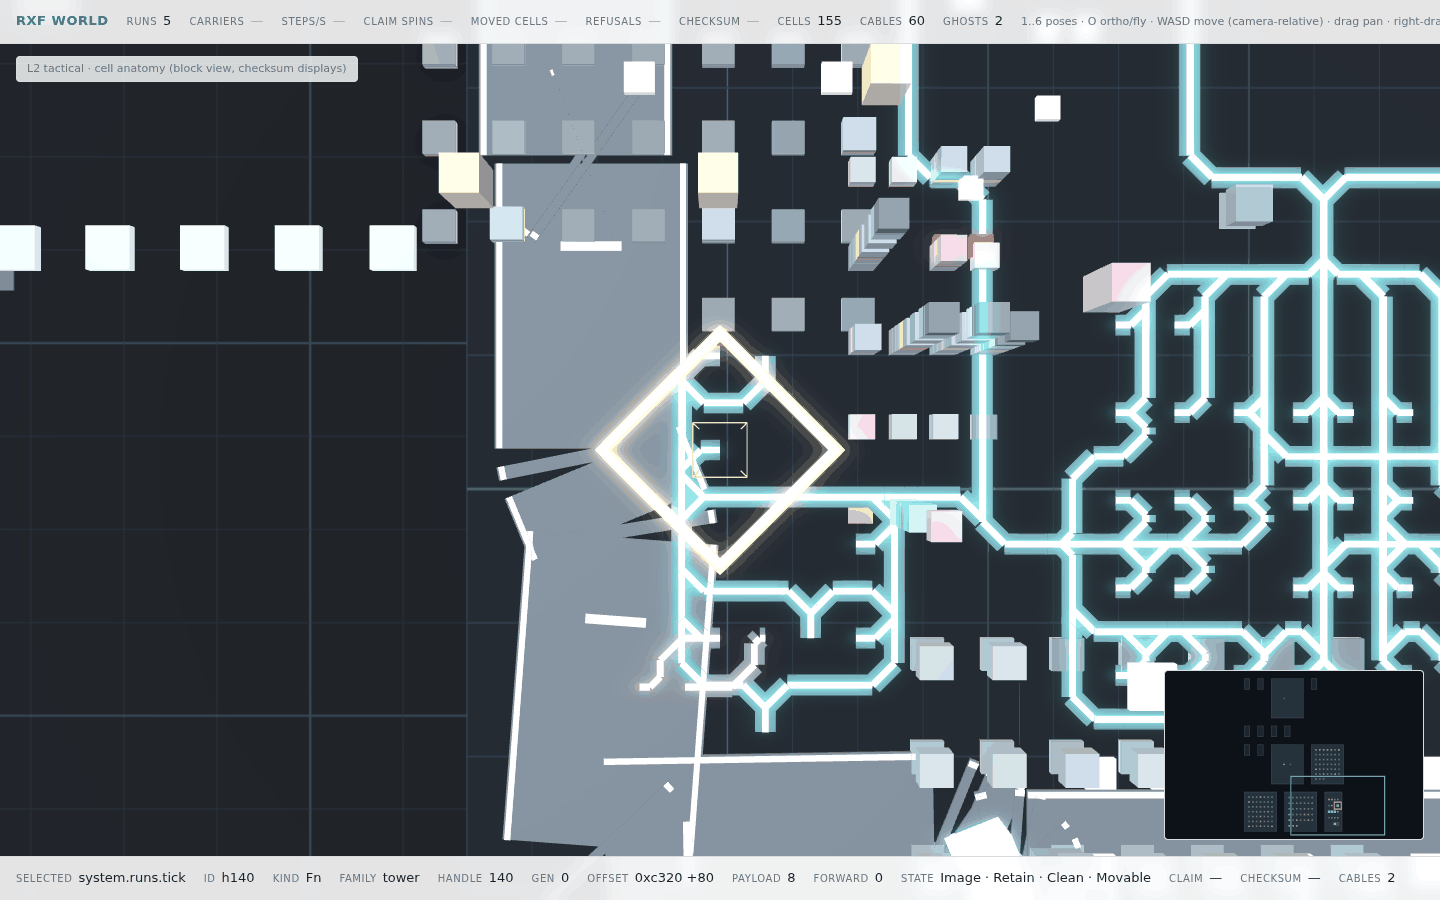
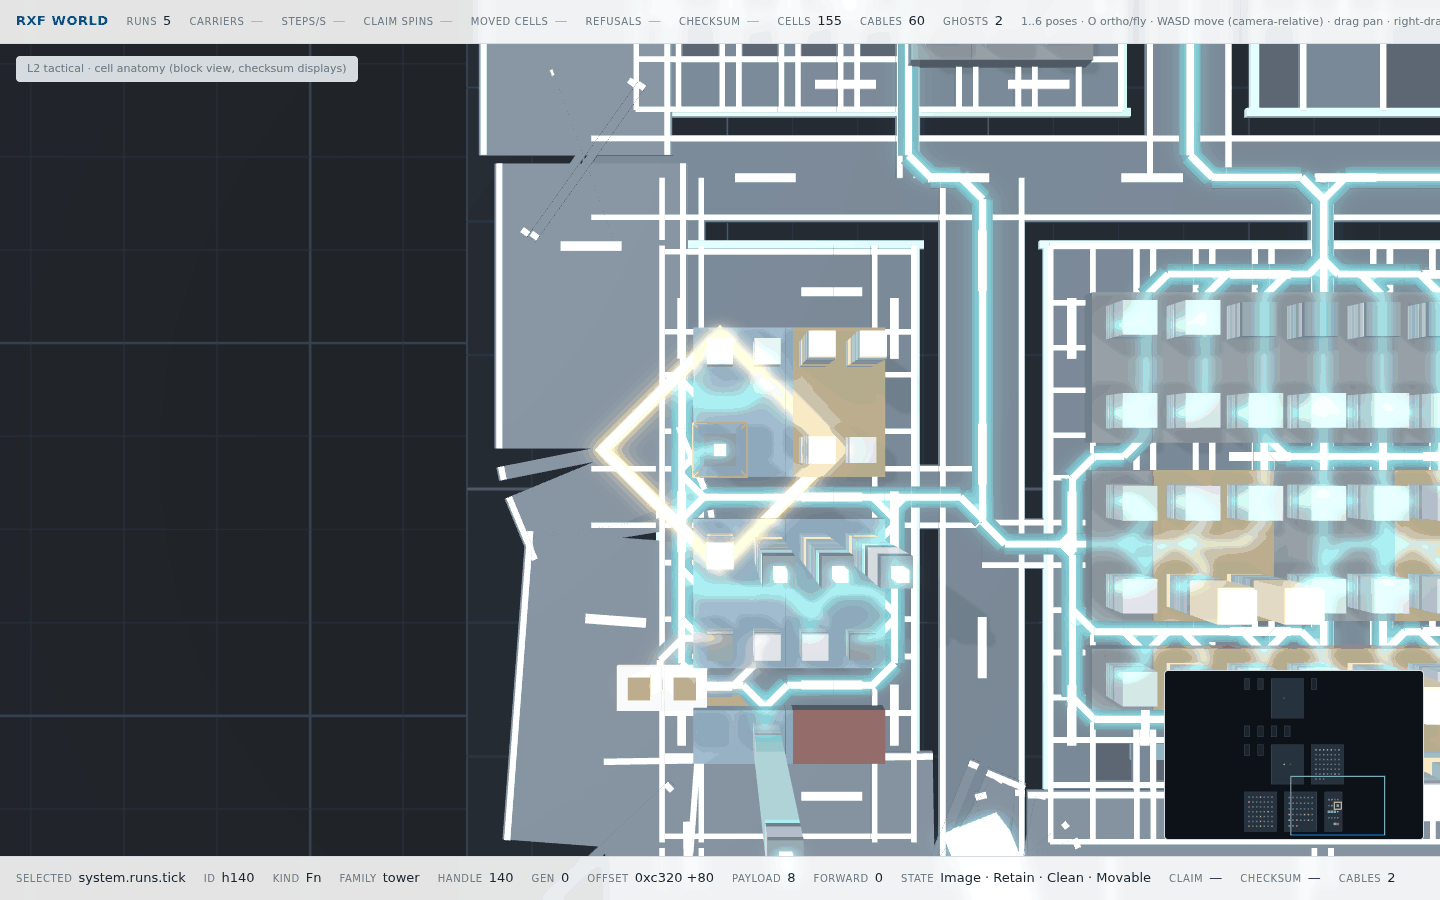
fix(world): city placement by its own coordinates, fog out of the zoom
The scene built its thin-instance matrices as Translation.multiply(Scaling).
Babylon takes row vectors (v' = v * M), so the translation ended up scaled by the
box size: every building, block and street scattered by its own footprint while
the ring road (built with Matrix.Compose) hugged the true bounds -- which read as
"a lone loop in one corner and a sprawl around it". One canonical helper
(placed = Scaling * Translation) now builds every placed box. Measured on the
live scene: block b0 sits at (22.3, 48.0) again instead of (62.44, 134.40), and
streets/massing/block/plot/floor bboxes are all back inside the ring bounds.

The EXP2 fog also drowned the city when scrolling out -- at high altitude every
pixel sits past the fog wall and the near-black fog color ate the scene. Fog
density is now camera-relative and thins as the rig pulls up.

Proofs re-captured from the fixed scene (overview, tactical, topdown, inspect).
Gates: test_world3d 23/23, node --check.

diff --git a/src/pymergetic/rxf/world/static/scene/rxf-world.js b/src/pymergetic/rxf/world/static/scene/rxf-world.js
@@ -136,6 +136,14 @@
     return data;
   }
 
+  function placed(x, y, z, w, h, d) {
+    /* A unit box scaled, then moved to its place. The order is the law here: Babylon takes
+     * row vectors (v' = v * M), so the matrix is Scaling * Translation -- the translation is
+     * applied last and stays raw. Translating first (Translation.multiply(Scaling)) would
+     * multiply the position by the box size and scatter the city by its own footprints. */
+    return BABYLON.Matrix.Scaling(w, h, d).multiply(BABYLON.Matrix.Translation(x, y, z));
+  }
+
   /* ---- the camera rig: one camera, ortho <-> perspective, camera-relative movement ---------- */
   function Rig(camera, canvas) {
     this.camera = camera;
@@ -510,11 +518,7 @@
       var plot = region.plot;
       var raster = region.tiles;
       var bandName = tileMatrices[region.band] ? region.band : "cells";
-      baseMatrices.push(
-        BABYLON.Matrix.Translation(plot.x + plot.w / 2, 0.05, plot.z + plot.d / 2).multiply(
-          BABYLON.Matrix.Scaling(plot.w, 0.1, plot.d)
-        )
-      );
+      baseMatrices.push(placed(plot.x + plot.w / 2, 0.05, plot.z + plot.d / 2, plot.w, 0.1, plot.d));
       /* the district's own tint: one band family, one district — the floor reads as districts */
       var district = tintOf(bandName, region.start + plot.x * 16 + plot.z);
       var lit = region.empty ? 0.55 : 1;
@@ -525,9 +529,7 @@
           var tileX = plot.x + (col + 0.5) * raster.step_x;
           var tileZ = plot.z + (row + 0.5) * raster.step_z;
           tileMatrices[bandName].push(
-            BABYLON.Matrix.Translation(tileX, 0.13, tileZ).multiply(
-              BABYLON.Matrix.Scaling(raster.step_x - inset, 0.14, raster.step_z - inset)
-            )
+            placed(tileX, 0.13, tileZ, raster.step_x - inset, 0.14, raster.step_z - inset)
           );
           var vary = 0.96 + 0.08 * hash(col * 31 + row * 17 + Math.round(plot.x * 7));
           tileColors[bandName].push(
@@ -549,11 +551,7 @@
         [plot.x + plot.w - edge / 2, rimY, plot.z + plot.d / 2, edge, 0.22, plot.d - edge]
       ];
       for (var side of rimSides) {
-        rimMatrices.push(
-          BABYLON.Matrix.Translation(side[0], side[1], side[2]).multiply(
-            BABYLON.Matrix.Scaling(side[3], side[4], side[5])
-          )
-        );
+        rimMatrices.push(placed(side[0], side[1], side[2], side[3], side[4], side[5]));
         rimColors.push(rimTint.r, rimTint.g, rimTint.b, 1);
       }
     }
@@ -617,9 +615,7 @@
         var floorHeight = raws[floor] * shrink;
         roleMesh(floorRole);
         roleMatrices[floorRole].push(
-          BABYLON.Matrix.Translation(cell.plot.x, y + floorHeight / 2, cell.plot.z).multiply(
-            BABYLON.Matrix.Scaling(width, floorHeight, width)
-          )
+          placed(cell.plot.x, y + floorHeight / 2, cell.plot.z, width, floorHeight, width)
         );
         var tint = floorColor(floorRole, cell);
         roleColors[floorRole].push(tint.r, tint.g, tint.b, 1);
@@ -648,15 +644,11 @@
     for (var capped of built.cellList) {
       if (capped.family === "tower") {
         beaconMatrices.push(
-          BABYLON.Matrix.Translation(capped.plot.x, capped.height + 0.45, capped.plot.z).multiply(
-            BABYLON.Matrix.Scaling(0.34, 0.9, 0.34)
-          )
+          placed(capped.plot.x, capped.height + 0.45, capped.plot.z, 0.34, 0.9, 0.34)
         );
       } else if (capped.family === "monument") {
         crownMatrices.push(
-          BABYLON.Matrix.Translation(capped.plot.x, capped.height + 0.12, capped.plot.z).multiply(
-            BABYLON.Matrix.Scaling(capped.footprint * 0.92, 0.24, capped.footprint * 0.92)
-          )
+          placed(capped.plot.x, capped.height + 0.12, capped.plot.z, capped.footprint * 0.92, 0.24, capped.footprint * 0.92)
         );
       }
     }
@@ -674,9 +666,7 @@
     var voidMatrices = [];
     for (var tile of doc.voids) {
       voidMatrices.push(
-        BABYLON.Matrix.Translation(tile.plot.x, 0.16, tile.plot.z).multiply(
-          BABYLON.Matrix.Scaling(tile.footprint, 0.22, tile.footprint)
-        )
+        placed(tile.plot.x, 0.16, tile.plot.z, tile.footprint, 0.22, tile.footprint)
       );
     }
     voidMesh.thinInstanceSetBuffer("matrix", matrixBuffer(voidMatrices), 16, true);
@@ -742,9 +732,7 @@
     var padColors = [];
     function padAt(x, z, fresh) {
       /* every trace plugs into something: a pad at each endpoint, never a naked line */
-      padMatrices.push(
-        BABYLON.Matrix.Translation(x, 0.40, z).multiply(BABYLON.Matrix.Scaling(1.6, 0.34, 1.6))
-      );
+      padMatrices.push(placed(x, 0.40, z, 1.6, 0.34, 1.6));
       var padTint = color(fresh ? CABLE_FRESH : CABLE_STALE, 0.6);
       padColors.push(padTint.r, padTint.g, padTint.b, 1);
     }
@@ -773,9 +761,7 @@
         };
       }
       if (!target) {
-        graveMatrices.push(
-          BABYLON.Matrix.Translation(end.x, 0.34, end.z).multiply(BABYLON.Matrix.Scaling(0.8, 0.6, 0.8))
-        );
+        graveMatrices.push(placed(end.x, 0.34, end.z, 0.8, 0.6, 0.8));
       }
       padAt(start.x, start.z, edge.fresh);
       padAt(end.x, end.z, edge.fresh);
@@ -926,32 +912,32 @@
       var centerX = alongX ? (street.from + street.to) / 2 : street.at;
       var centerZ = alongX ? street.at : (street.from + street.to) / 2;
       streetRoadMatrices.push(
-        BABYLON.Matrix.Translation(centerX, 0.16, centerZ).multiply(
-          BABYLON.Matrix.Scaling(alongX ? length : street.width, 0.1, alongX ? street.width : length)
-        )
+        placed(centerX, 0.16, centerZ, alongX ? length : street.width, 0.1, alongX ? street.width : length)
       );
       for (var side of [-1, 1]) {
         /* the curb: a thin glowing strip along each street edge, the ring's road language */
         var curbOffset = side * (street.width / 2 - 0.15);
         streetCurbMatrices.push(
-          BABYLON.Matrix.Translation(
+          placed(
             centerX + (alongX ? 0 : curbOffset),
             0.265,
-            centerZ + (alongX ? curbOffset : 0)
-          ).multiply(
-            BABYLON.Matrix.Scaling(alongX ? length : 0.2, 0.06, alongX ? 0.2 : length)
+            centerZ + (alongX ? curbOffset : 0),
+            alongX ? length : 0.2,
+            0.06,
+            alongX ? 0.2 : length
           )
         );
       }
       for (var dashAt = 3; dashAt < length - 3; dashAt += 7) {
         var dashT = street.from + dashAt;
         streetDashMatrices.push(
-          BABYLON.Matrix.Translation(
+          placed(
             alongX ? dashT : centerX,
             0.275,
-            alongX ? centerZ : dashT
-          ).multiply(
-            BABYLON.Matrix.Scaling(alongX ? 2.2 : 0.32, 0.07, alongX ? 0.32 : 2.2)
+            alongX ? centerZ : dashT,
+            alongX ? 2.2 : 0.32,
+            0.07,
+            alongX ? 0.32 : 2.2
           )
         );
       }
@@ -984,22 +970,28 @@
       var blockPlot = cityBlock.plot;
       var blockTint = color(FAMILY_COLORS[cityBlock.family] || FAMILY_COLORS.block, 0.5);
       blockMatrices.push(
-        BABYLON.Matrix.Translation(
+        placed(
           blockPlot.x + blockPlot.w / 2,
           0.45,
-          blockPlot.z + blockPlot.d / 2
-        ).multiply(BABYLON.Matrix.Scaling(blockPlot.w, 0.9, blockPlot.d))
+          blockPlot.z + blockPlot.d / 2,
+          blockPlot.w,
+          0.9,
+          blockPlot.d
+        )
       );
       blockColors.push(blockTint.r, blockTint.g, blockTint.b, 1);
       /* the aggregate massing: the block's shaded volume, visible where buildings are dots */
       var massHeight = cityBlock.height * 0.55 + 1.2;
       var massTint = color(FAMILY_COLORS[cityBlock.family] || FAMILY_COLORS.block, 0.82);
       massMatrices.push(
-        BABYLON.Matrix.Translation(
+        placed(
           blockPlot.x + blockPlot.w / 2,
           0.9 + massHeight / 2,
-          blockPlot.z + blockPlot.d / 2
-        ).multiply(BABYLON.Matrix.Scaling(blockPlot.w * 0.82, massHeight, blockPlot.d * 0.82))
+          blockPlot.z + blockPlot.d / 2,
+          blockPlot.w * 0.82,
+          massHeight,
+          blockPlot.d * 0.82
+        )
       );
       massColors.push(massTint.r, massTint.g, massTint.b, 1);
     }
@@ -1542,6 +1534,11 @@
       engine.runRenderLoop(function () {
         var dt = Math.min(0.1, engine.getDeltaTime() / 1000);
         rig.step(dt);
+        /* the fog is camera-relative: it fades the far ground at street level, but thins as the
+         * camera pulls up. EXP2 fog works on camera distance alone — at a zoomed-out altitude
+         * every pixel sits past the fog wall and the whole city drowns in the (near black) fog
+         * color, which reads as "the scene goes dark when I scroll out". */
+        scene.fogDensity = 0.0022 * Math.min(1, 70 / Math.max(70, rig.state.altitude));
         /* labels are screen-aligned signage: they take the camera's own rotation, so their
          * text is upright and unmirrored from every pitch and yaw the rig can reach. The
          * 180° turn about the plane's own Y points the plane's readable face (CreatePlane
